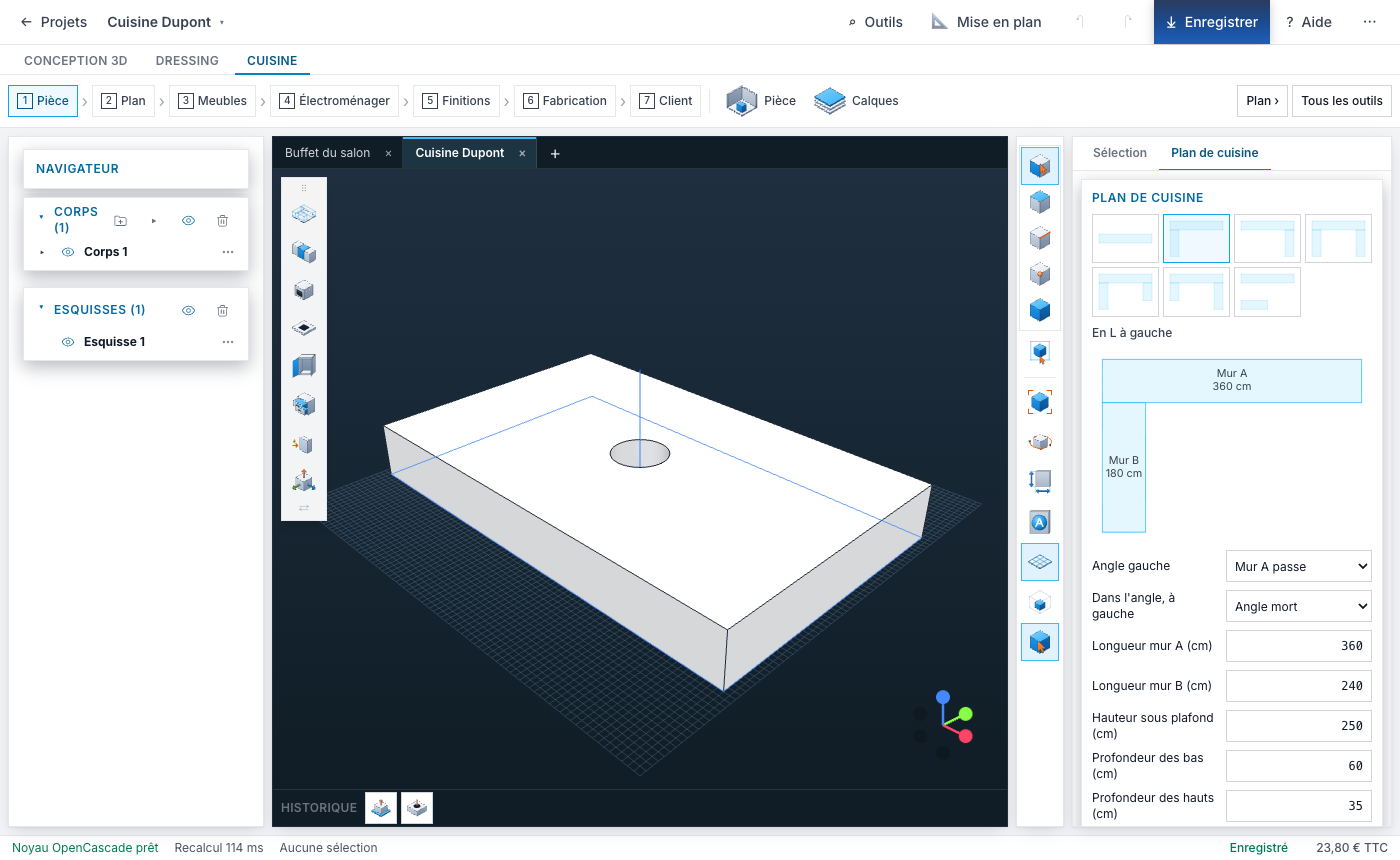
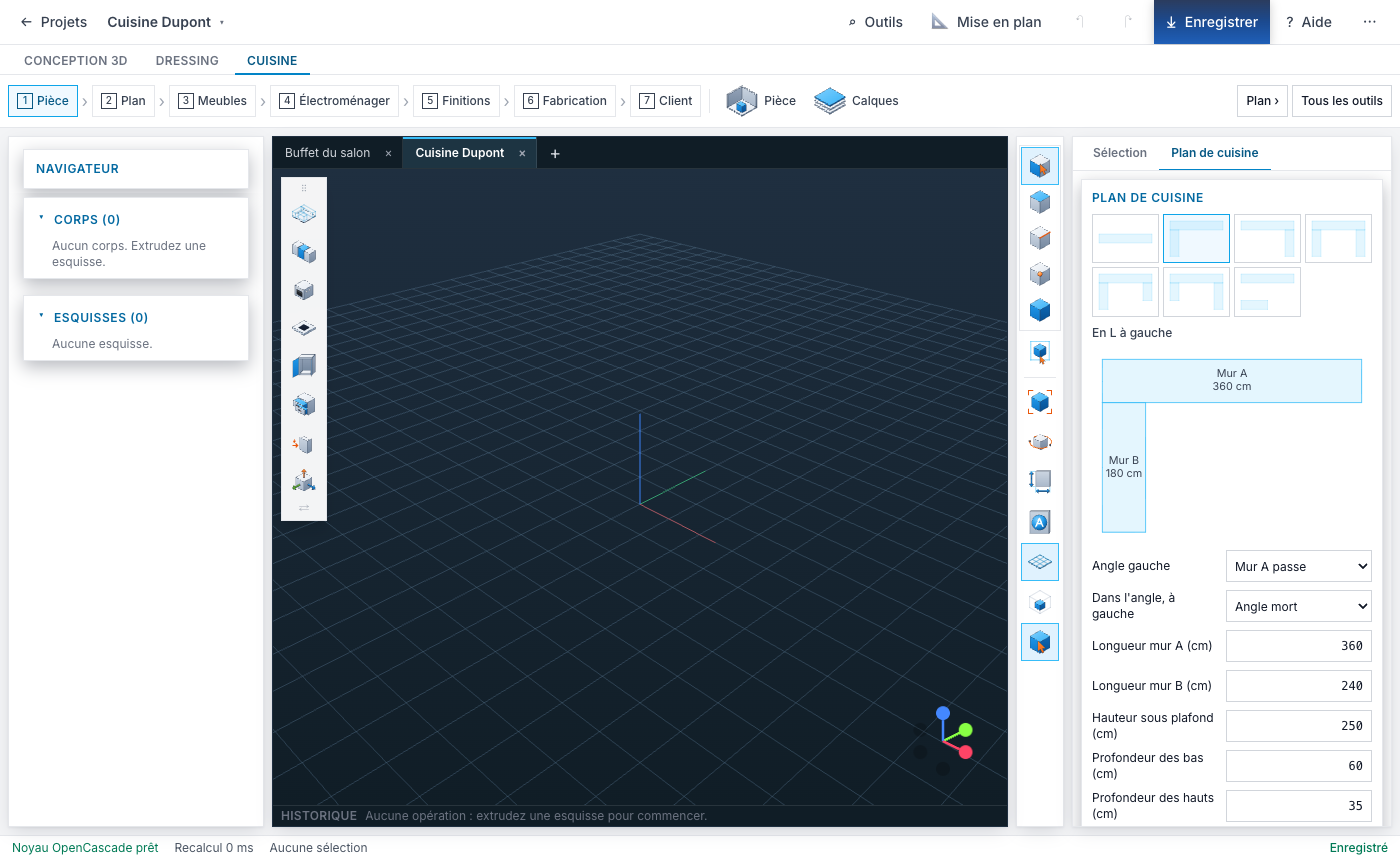
Un projet par espace : chaque projet est un projet 3D, une cuisine ou un dressing, s'ouvre sur son onglet ; l'onglet d'un autre espace ouvre ou crée un projet de cet espace dans un autre onglet
Une cuisine ou un dressing neuf démarre vide ; les projets d'avant sont classés d'après leur contenu et leur nom ; l'espace se change sur la fiche du projet.

diff --git a/frontend/src/app/space-switch.ts b/frontend/src/app/space-switch.ts
@@ -1,0 +1,78 @@
+/**
+ * Un projet par espace : une cuisine se travaille dans un projet de cuisine, un placard ou un dressing dans un projet de
+ * dressing, un meuble libre dans un projet 3D. L'onglet d'un autre espace (Cuisine, depuis un placard) n'affiche donc
+ * pas le projet ouvert : il propose d'ouvrir un projet de cet espace, ou d'en créer un, dans un autre onglet de projet.
+ * Ses outils peuvent tout de même servir dans ce projet, sur demande (« cad:use-space », ui/ribbon-layout.ts).
+ */
+import { createProject, listProjects } from "../persistence/api";
+import { el } from "../ui/dom";
+import type { EditorConfig } from "./editor";
+import { MOST_TABS, pageTabs } from "./project-tabs";
+import { openModal } from "./workshop/workshop-ui";
+
+const SPACES: Record<string, { name: string; one: string; new: string; placeholder: string }> = {
+  design: { name: "Conception 3D", one: "un projet 3D", new: "Nouveau projet 3D", placeholder: "Ex. : Meuble télé" },
+  kitchen: { name: "Cuisine", one: "une cuisine", new: "Nouvelle cuisine", placeholder: "Ex. : Cuisine M. Dupont" },
+  dressing: { name: "Dressing", one: "un dressing ou un placard", new: "Nouveau dressing", placeholder: "Ex. : Placard de l'entrée" },
+};
+
+export function bindSpaceSwitch(config: EditorConfig, space: string | undefined, notify: (message: string, kind?: "info" | "success" | "error") => void): void {
+  const collection = config.apiUrl.replace(/[^/]+\/$/, "");
+  document.addEventListener("cad:other-space", (event) => {
+    const wanted = (event as CustomEvent<string>).detail;
+    const target = SPACES[wanted];
+    const here = SPACES[space ?? "design"];
+    if (!target || !here) return;
+    const open = (project: { id: string; name: string }) => {
+      const tabs = pageTabs();
+      close();
+      // In a tab of its own; without the tabs (an old page), the page itself.
+      if (!tabs) return location.assign(`${config.projectsUrl}${project.id}/editor/`);
+      if (!tabs.open(project)) notify(`${MOST_TABS} onglets au plus : fermez-en un pour en ouvrir un autre.`, "info");
+    };
+    const list = el("div", { class: "max-h-64 space-y-1 overflow-y-auto", role: "group", "aria-label": `Ouvrir ${target.one}`, "data-space-list": wanted }, el("p", { class: "text-sm text-gray-500" }, "Chargement…"));
+    const name = el("input", { type: "text", maxlength: "120", placeholder: target.placeholder, "aria-label": `Nom : ${target.new.toLowerCase()}`, class: "h-9 min-w-0 flex-1 border border-gray-300 bg-white px-2 text-sm dark:border-gray-600 dark:bg-gray-900", "data-space-name": "" });
+    name.addEventListener("keydown", (e) => e.stopPropagation());
+    const create = el("button", { type: "submit", class: "tool-btn tool-btn-primary h-9 shrink-0 px-3 text-sm" }, `Créer`);
+    const form = el("form", { class: "flex gap-2", "data-space-new": wanted }, name, create);
+    form.addEventListener("submit", (e) => {
+      e.preventDefault();
+      const wantedName = name.value.trim();
+      if (!wantedName) return notify(`Donnez un nom : ${target.new.toLowerCase()}.`, "info");
+      create.disabled = true;
+      createProject(collection, wantedName, wanted)
+        .then(open)
+        .catch((error: unknown) => notify(error instanceof Error ? error.message : "Ce projet n'a pas pu être créé.", "error"))
+        .finally(() => (create.disabled = false));
+    });
+    const borrow = el("button", { type: "button", class: "text-left text-xs text-gray-500 underline hover:text-gray-800 dark:text-gray-400 dark:hover:text-gray-100", "data-space-borrow": wanted }, `Utiliser les outils ${target.name} dans ce projet-ci`);
+    borrow.addEventListener("click", () => {
+      close();
+      document.dispatchEvent(new CustomEvent("cad:use-space", { detail: wanted }));
+    });
+    const content = el(
+      "div",
+      { class: "w-[min(32rem,calc(100vw-3rem))] space-y-4 text-sm", "data-space-switch": wanted },
+      el("p", {}, `« ${config.projectName} » est ${here.one} (${here.name}). ${target.name === "Cuisine" ? "Une cuisine" : target.name === "Dressing" ? "Un dressing" : "Un projet 3D"} se travaille dans son propre projet, à côté, dans un autre onglet :`),
+      el("div", { class: "space-y-1.5" }, el("p", { class: "panel-title" }, target.new), form),
+      el("div", { class: "space-y-1.5" }, el("p", { class: "panel-title" }, `Ouvrir ${target.one}`), list),
+      borrow,
+    );
+    const close = openModal(target.name, content);
+    name.focus();
+    listProjects(collection)
+      .then((projects) => {
+        const mine = projects.filter((p) => (p.space ?? "design") === wanted && p.id !== config.projectId);
+        list.replaceChildren(
+          ...(mine.length
+            ? mine.map((p) => {
+                const b = el("button", { type: "button", class: "tool-btn w-full justify-start truncate text-left text-sm" }, p.name);
+                b.addEventListener("click", () => open(p));
+                return b;
+              })
+            : [el("p", { class: "text-sm text-gray-500" }, `Aucun pour le moment : créez-en ${target.one.startsWith("un ") ? "un" : "une"} au-dessus.`)]),
+        );
+      })
+      .catch(() => list.replaceChildren(el("p", { class: "text-sm text-gray-500" }, "La liste des projets n'a pas pu être lue.")));
+  });
+}

diff --git a/tests/e2e/editor.spec.ts b/tests/e2e/editor.spec.ts
@@ -375,13 +375,17 @@ test("tableau de bord : une cuisine créée de l'accueil, son devis calculé par
   await newProject(page, "Tableau e2e");
   await page.goto("/projects/");
   await page.fill("#space-name", "Cuisine Dupont");
-  const saved = page.waitForResponse((r) => r.url().endsWith("/price/") && r.request().method() === "POST", { timeout: 60_000 });
   await page.getByRole("button", { name: "Créer une cuisine" }).click();
   await page.waitForURL("**/editor/**");
   await expect(page.locator('[data-ref="loading"]')).toHaveCount(0, { timeout: 60_000 });
-  // Opened on its tab, its plan at the right; the quote's total goes to the server.
+  // Opened on its tab, empty, its plan at the right; a kitchen proposed, the quote's total goes to the server.
   await expect(page.getByRole("tablist", { name: "Espaces de travail" }).getByRole("tab", { name: "Cuisine" })).toHaveAttribute("aria-selected", "true");
-  await expect(page.getByRole("dialog", { name: "Plan de cuisine" })).toBeVisible();
+  const plan = page.getByRole("dialog", { name: "Plan de cuisine" });
+  await expect(plan).toBeVisible();
+  await plan.getByRole("button", { name: "Droite (I)", exact: true }).click();
+  await plan.getByRole("button", { name: "Créer le plan" }).click();
+  const saved = page.waitForResponse(async (r) => r.url().endsWith("/price/") && r.request().method() === "POST" && (r.request().postDataJSON() as { price: number | null }).price !== null, { timeout: 60_000 });
+  await plan.locator("[data-propose]").click();
   expect((await saved).status()).toBe(200);
   // The dashboard: its stage, its total; the sheet keeps the client.
   await page.goto("/projects/");
@@ -421,5 +425,44 @@ test("paramètres de l'atelier : la marge changée dans le devis de l'éditeur e
   await expect(page.getByRole("heading", { name: "Paramètres de l'atelier" })).toBeVisible();
   await expect(page.locator("#id_margin")).toHaveValue("37.0");
   if (process.env.SHOTS) await page.screenshot({ path: `${process.env.SHOTS}/parametres-atelier.png`, fullPage: true });
+  expect(errors).toEqual([]);
+});
+
+test("un projet par espace : l'onglet Dressing d'une cuisine ouvre ou crée un dressing dans un autre onglet de projet", { tag: "@rapide" }, async ({ page }) => {
+  const errors: string[] = [];
+  page.on("pageerror", (error) => errors.push(error.message));
+  await page.setViewportSize({ width: 1400, height: 900 });
+  await newProject(page, "Espaces e2e");
+  // Spaces kept apart, as for a user.
+  await page.evaluate(() => localStorage.removeItem("cao.free-spaces"));
+  await page.goto("/projects/");
+  await page.fill("#space-name", "Cuisine Martin");
+  await page.getByRole("button", { name: "Créer une cuisine" }).click();
+  await page.waitForURL("**/editor/**");
+  await expect(page.locator('[data-ref="loading"]')).toHaveCount(0, { timeout: 60_000 });
+  const tabs = page.getByRole("tablist", { name: "Espaces de travail" }).getByRole("tab");
+  await expect(tabs.nth(2)).toHaveAttribute("aria-selected", "true");
+  // The Dressing tab does not show the kitchen: it offers a dressing of its own.
+  await tabs.nth(1).click();
+  const chooser = page.getByRole("dialog", { name: "Dressing" });
+  await expect(chooser).toContainText("« Cuisine Martin » est une cuisine (Cuisine)");
+  await expect(tabs.nth(2)).toHaveAttribute("aria-selected", "true");
+  if (process.env.SHOTS) await page.screenshot({ path: `${process.env.SHOTS}/espaces.png` });
+  await chooser.locator("[data-space-name]").fill("Placard de l'entrée");
+  await chooser.getByRole("button", { name: "Créer" }).click();
+  // In a project tab of its own, open on its tab, its plan at the right.
+  const projects = page.getByRole("tablist", { name: "Projets ouverts" });
+  await expect(projects.getByRole("tab", { name: "Placard de l'entrée" })).toHaveAttribute("aria-selected", "true");
+  const frame = page.frameLocator('iframe[data-project-frame]');
+  await expect(frame.getByRole("tablist", { name: "Espaces de travail" }).getByRole("tab", { name: "Dressing" })).toHaveAttribute("aria-selected", "true", { timeout: 60_000 });
+  await expect(frame.getByRole("dialog", { name: "Plan de dressing" })).toBeVisible();
+  // Back to the kitchen: the dressing is listed now; its tools can still be borrowed here.
+  // (the dressing's editor covers the page: its own bar of the open projects)
+  await frame.getByRole("tablist", { name: "Projets ouverts" }).getByRole("tab", { name: "Cuisine Martin" }).click();
+  await expect(projects.getByRole("tab", { name: "Cuisine Martin" })).toHaveAttribute("aria-selected", "true");
+  await tabs.nth(1).click();
+  await expect(chooser.getByRole("button", { name: "Placard de l'entrée" })).toBeVisible();
+  await chooser.locator("[data-space-borrow]").click();
+  await expect(tabs.nth(1)).toHaveAttribute("aria-selected", "true");
   expect(errors).toEqual([]);
 });

diff --git a/frontend/src/ui/ribbon-layout.ts b/frontend/src/ui/ribbon-layout.ts
@@ -365,9 +365,32 @@ function bindToolbar(toolbar: HTMLElement, name: string): void {
     separate();
     fit();
   };
+  // The project's space (a kitchen, a dressing, a 3D design): its tab; another tab opens a project of its own
+  // (app/space-switch.ts), unless its tools were borrowed for this project.
+  // « cao.free-spaces »: every tab in every project, as before the spaces (the older browser tests).
+  let free = false;
+  try {
+    free = localStorage.getItem("cao.free-spaces") === "1";
+  } catch {
+    // Spaces kept apart.
+  }
+  const space = free ? undefined : document.getElementById("editor")?.dataset.space;
+  const borrowed = new Set<string>(space ? [space] : []);
+  document.addEventListener("cad:use-space", (event) => {
+    const wanted = (event as CustomEvent<string>).detail;
+    const tab = tabs.find((t) => t.dataset.ribbonTab === wanted);
+    if (!tab) return;
+    borrowed.add(wanted);
+    tab.click();
+  });
   for (const tab of tabs) {
     tab.addEventListener("click", () => {
       open?.close();
+      const wanted = tab.dataset.ribbonTab as string;
+      if (space && !borrowed.has(wanted)) {
+        document.dispatchEvent(new CustomEvent("cad:other-space", { detail: wanted }));
+        return;
+      }
       choose(tab);
       // Its work's panel, at the right (app/tab-panels.ts).
       document.dispatchEvent(new CustomEvent("cad:ribbon-tab", { detail: tab.dataset.ribbonTab }));
@@ -394,6 +417,8 @@ function bindToolbar(toolbar: HTMLElement, name: string): void {
       // Only this visit.
     }
   }
+  // A project of a space opens on its tab.
+  if (space && tabs.some((t) => t.dataset.ribbonTab === space)) first = space;
   const opening = tabs.find((t) => t.dataset.ribbonTab === first) ?? tabs[0];
   if (opening) choose(opening);
 

diff --git a/frontend/src/app/tab-panels.ts b/frontend/src/app/tab-panels.ts
@@ -1,8 +1,8 @@
 /**
  * Chaque onglet du ruban montre, à droite, le panneau de son travail : Dressing → le Plan de dressing, Cuisine → le
  * Plan de cuisine (ouverts s'ils ne le sont pas, pour poser un plan s'il n'y en a pas encore), Conception 3D → la
- * Sélection. Un plan déjà ouvert garde son état (un linéaire en cours de changement reste où il en est). Un projet
- * créé depuis l'accueil comme cuisine ou dressing (?onglet=kitchen) s'ouvre ainsi, son plan à droite.
+ * Sélection. Un plan déjà ouvert garde son état (un linéaire en cours de changement reste où il en est). Un projet de
+ * cuisine ou de dressing s'ouvre ainsi, son plan à droite.
  */
 import { showPanel } from "../ui/dock";
 
@@ -20,9 +20,9 @@ export function bindTabPanels(root: HTMLElement): void {
     if (open) showPanel(open);
     else root.querySelector<HTMLElement>(plan.button)?.click();
   });
+  // A kitchen or a dressing opens with its plan at the right (?onglet=kitchen: just made from the home page).
   const asked = new URLSearchParams(location.search).get("onglet");
-  if (asked && PLANS[asked]) {
-    history.replaceState(null, "", location.pathname);
-    document.dispatchEvent(new CustomEvent("cad:ribbon-tab", { detail: asked }));
-  }
+  if (asked) history.replaceState(null, "", location.pathname);
+  const space = asked ?? root.dataset.space ?? document.getElementById("editor")?.dataset.space;
+  if (space && PLANS[space]) document.dispatchEvent(new CustomEvent("cad:ribbon-tab", { detail: space }));
 }

diff --git a/templates/projects/project_list.html b/templates/projects/project_list.html
@@ -80,7 +80,7 @@
               <div class="min-w-0">
                 <p class="flex min-w-0 items-center gap-2"><span class="truncate font-medium">{{ project.name }}</span>{% include "projects/_status.html" with status=project.status label=project.get_status_display %}</p>
                 <p class="mt-0.5 truncate text-sm text-gray-500 dark:text-gray-400">
-                  {% if project.client_name %}{{ project.client_name }} · {% endif %}Version {{ project.current_version }} · modifié le {{ project.updated_at|date:"j F Y à H:i" }}{% if project.install_date %} · pose le {{ project.install_date|date:"j F Y" }}{% endif %}
+                  <span data-space="{{ project.space }}">{{ project.get_space_display }}</span> · {% if project.client_name %}{{ project.client_name }} · {% endif %}Version {{ project.current_version }} · modifié le {{ project.updated_at|date:"j F Y à H:i" }}{% if project.install_date %} · pose le {{ project.install_date|date:"j F Y" }}{% endif %}
                 </p>
               </div>
               {% if project.price is not None %}<span class="shrink-0 font-mono text-sm font-medium" data-price>{{ project.price|floatformat:"2g" }} €</span>{% endif %}

diff --git a/templates/guide.html b/templates/guide.html
@@ -20,6 +20,7 @@
   <section id="accueil" class="space-y-3">
     <h2 class="text-2xl font-semibold">1. L'accueil : vos affaires</h2>
     <p>En haut, on crée un projet : <strong>Conception 3D</strong> pour un meuble libre, ou <strong>Cuisine &amp; Dressing</strong> — donnez un nom, puis « Créer une cuisine » ou « Créer un dressing ». En bas, <strong>Mes projets</strong> est votre tableau de bord : une case par statut (Esquisse, Devis envoyé, Accepté, En fabrication, Posé), le montant des devis en cours, une recherche par projet ou par client. Le bouton <strong>Fiche</strong> d'un projet ouvre sa fiche client.</p>
+    <p>Chaque projet a son <strong>espace</strong> : une cuisine se travaille dans un projet de cuisine, un placard ou un dressing dans un projet de dressing. Depuis un placard, l'onglet <strong>Cuisine</strong> propose d'ouvrir une cuisine ou d'en créer une, dans un autre onglet de projet.</p>
     <img class="w-full border border-gray-200 dark:border-gray-800" src="{% static 'guide/01-accueil.png' %}" alt="L'accueil : les deux façons de créer un projet et le tableau de bord des projets par statut" loading="lazy">
   </section>
 

diff --git a/frontend/src/persistence/api.ts b/frontend/src/persistence/api.ts
@@ -98,12 +98,12 @@ export function saveOnExit(apiUrl: string, doc: CadDocument, baseVersion: number
 }
 
 /** The projects of the user, the last changed first. */
-export async function listProjects(url: string): Promise<{ id: string; name: string }[]> {
-  return (await request(url)).projects as { id: string; name: string }[];
+export async function listProjects(url: string): Promise<{ id: string; name: string; space?: string }[]> {
+  return (await request(url)).projects as { id: string; name: string; space?: string }[];
 }
 
-/** A new empty project. */
-export async function createProject(url: string, name: string): Promise<{ id: string; name: string }> {
-  const { id, name: kept } = await request(url, { method: "POST", body: JSON.stringify({ name }) });
+/** A new empty project, of a space (a 3D design by default, a kitchen, a dressing). */
+export async function createProject(url: string, name: string, space = "design"): Promise<{ id: string; name: string }> {
+  const { id, name: kept } = await request(url, { method: "POST", body: JSON.stringify({ name, space }) });
   return { id: id as string, name: kept as string };
 }

diff --git a/frontend/src/app/help-content/interface.ts b/frontend/src/app/help-content/interface.ts
@@ -220,7 +220,7 @@ export const SCREEN: HelpFamily[] = [
           "« Dressing » : plan, Répartition, Étagères, Cloisons, modules, avec la pièce ; le Plan de dressing s'ouvre à droite.",
           "« Cuisine » : implantation, meubles de cuisine, découpes du plan de travail, avec les meubles et la pièce ; le Plan de cuisine s'ouvre à droite.",
         ],
-        tip: "Modifier, Fabrication et Client sont dans les trois. Chaque onglet a sa barre « Mes outils » ; Conception 3D remet la Sélection à droite. Le dernier onglet choisi est retenu dans ce navigateur.",
+        tip: "Chaque projet est un projet 3D, une cuisine ou un dressing, et s'ouvre sur son onglet. L'onglet d'un autre espace propose d'ouvrir ou de créer un projet de cet espace dans un autre onglet de projet (ou d'utiliser ses outils ici). Modifier, Fabrication et Client sont dans les trois ; chaque onglet a sa barre « Mes outils ».",
       },
       {
         keys: [], selector: "[data-steps]", name: "Étapes de la cuisine et du dressing",

diff --git a/frontend/src/main.ts b/frontend/src/main.ts
@@ -49,6 +49,7 @@ import { bindWeight } from "./app/workshop/weight-panel";
 import { bindMotion } from "./app/motion";
 import { bindDrawers } from "./app/drawer-toggle";
 import { bindTabPanels } from "./app/tab-panels";
+import { bindSpaceSwitch } from "./app/space-switch";
 import { bindWorkflowSteps } from "./app/workflow-steps";
 import { bindParameters } from "./app/parameters";
 import { bindScenes } from "./app/workshop/scenes";
@@ -185,6 +186,7 @@ async function start(): Promise<void> {
   bindPlanLayout(root, viewport, editor);
   bindKitchenPlan(root, viewport, editor);
   bindTabPanels(root);
+  bindSpaceSwitch(config, root.dataset.space, (m, k) => editor.notify(m, k));
   bindWorkflowSteps(root, editor);
   bindLivePrice(root, viewport, editor, config.apiUrl);
   bindNicheCopy(root, viewport, editor);

diff --git a/tests/e2e/helpers.ts b/tests/e2e/helpers.ts
@@ -13,7 +13,11 @@ export async function newProject(page: Page, name: string): Promise<string> {
   await page.getByRole("button", { name: "Créer mon compte" }).click();
   await page.waitForURL("**/projects/");
   // The tests use the ribbon's tools: in Cuisine and Dressing, the whole ribbon rather than the steps' tools only.
-  await page.evaluate(() => localStorage.setItem("cao.steps-ribbon", "1"));
+  await page.evaluate(() => {
+    localStorage.setItem("cao.steps-ribbon", "1");
+    // And every tab in this project, the kitchen's or the dressing's tools on a 3D project (spaces: their own tests).
+    localStorage.setItem("cao.free-spaces", "1");
+  });
   await page.fill("#id_name", name);
   await page.getByRole("button", { name: "Créer et ouvrir" }).click();
   await page.waitForURL("**/editor/");

diff --git a/templates/projects/project_sheet.html b/templates/projects/project_sheet.html
@@ -16,7 +16,10 @@
     {% if form.non_field_errors %}<p class="field-error text-sm text-red-700 dark:text-red-400">{{ form.non_field_errors|join:" " }}</p>{% endif %}
     <fieldset class="space-y-3">
       <legend class="text-sm font-semibold uppercase tracking-wide text-gray-500 dark:text-gray-400">Le projet</legend>
-      {% include "projects/_sheet_field.html" with field=form.name %}
+      <div class="grid gap-3 sm:grid-cols-[1fr_12rem]">
+        {% include "projects/_sheet_field.html" with field=form.name %}
+        {% include "projects/_sheet_field.html" with field=form.space %}
+      </div>
       <div class="grid gap-3 sm:grid-cols-2">
         {% include "projects/_sheet_field.html" with field=form.status %}
         {% include "projects/_sheet_field.html" with field=form.install_date %}

diff --git a/templates/editor/editor.html b/templates/editor/editor.html
@@ -12,7 +12,7 @@
 {% block header %}{% endblock %}
 
 {% block main %}
-<div id="editor" data-mode="model" class="group/editor flex h-dvh flex-col">
+<div id="editor" data-mode="model" data-space="{{ project.space }}" class="group/editor flex h-dvh flex-col">
   {# ---- Top bar: project, file and history commands ---- #}
   <header class="flex items-center gap-1 border-b border-gray-200 bg-white px-2 pt-[env(safe-area-inset-top)] dark:border-gray-800 dark:bg-gray-900">
     <a href="{% url 'projects:list' %}" class="tool-btn" title="Mes projets" aria-label="Retour à mes projets">
